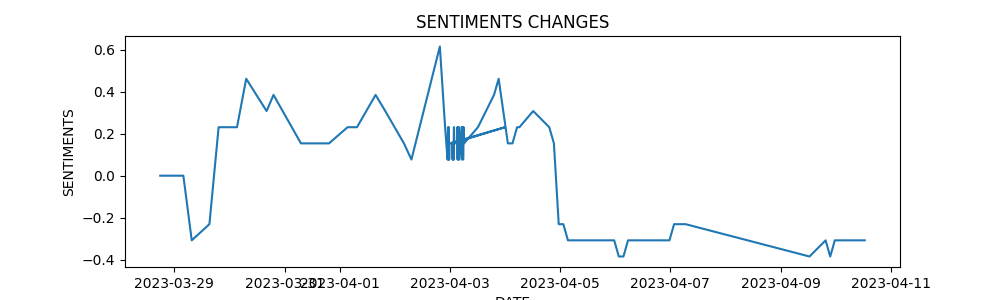
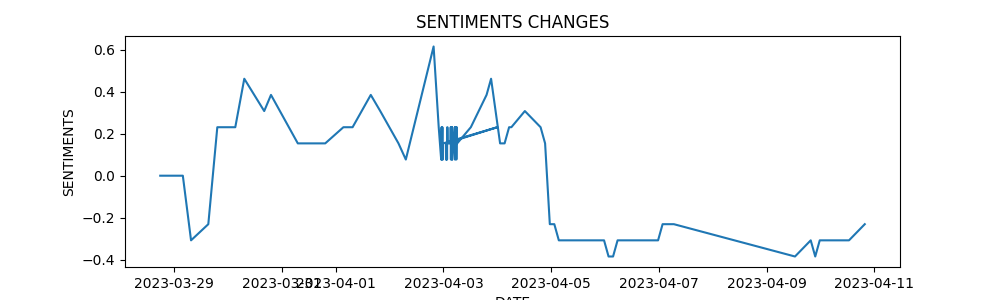
Commit

diff --git a/news.html b/news.html
@@ -175,6 +175,102 @@
             
 		
         <li>
+            <a href=https://www.espn.com.au/football/english-premier-league/story/4917343/the-var-review-unpacking-brighton-error-vs-tottenham-brentford-penalty-newcastle style = "text-decoration: none;" target="_blank" class = s>
+                <h1 style="color:blue; font-size:24px;">
+                THE VAR REVIEW: UNPACKING BRIGHTON PENALTY ERROR VS. SPURS
+                </h1>                
+            </a>
+            <p style="color:grey;font-size:14px;">
+                https://www.espn.com.au/football/english-premier-league/story/4917343/the-var-review-unpacking-brighton-error-vs-tottenham-brentford-penalty-newcastle
+            </p>
+            <p style="color:black;font-size:16px;font-weight: bold;">
+                04/10/2023, 17:07
+            </p>
+            <p style="color:black;font-size:16px;font-weight:bold;">
+                94.23% Shortened!
+            </p>
+            <div class = "container">
+                <img src=/image/news_images/background.jpeg class="image" style="width:100%" alt = "NO IMAGE" onerror = "this.onerror=null;this.src='/image/news_images/background.jpeg';">
+                <div class = "middle">
+                    <div class="text">
+        
+            <p>
+                It appeared to hit Mepham lower on the arm, the on-field decision was no handball, but the VAR didn't intervene in this either
+            </p>
+            
+            <p>
+                The consistency should lie in when the VAR gets involved
+            </p>
+            
+            <p>
+                The VAR in that game just happened to be Attwell
+            </p>
+            
+            <p>
+                Again, VAR should be about consistency in intervention
+            </p>
+            
+            <p>
+                With this contact, there is no prospect of a VAR intervention
+            </p>
+            
+            <p>
+                As there was clear contact from Walker-Peters, and he didn't get a touch on the ball, there will be no VAR intervention
+            </p>
+              
+                		<p> </p>
+                        <p> </p>
+                        <p style="color:black;font-size:10px;">
+                            ['decision', 'var', 'penalty', 'goal', 'ball']
+                        </p>
+                    </div>
+                </div>
+            </div>
+            <div class = "mobile" onClick=onClick(this)>
+                <img src = /image/news_images/background.jpeg class = "image" style="width:100%" alt = "NO IMAGE" onerror = "this.onerror=null;this.src='/image/news_images/background.jpeg';">
+                <button style = "width:100%;height:30px">
+                    Shorten!
+                </button>
+                <div class="textmobile" style="display:none">
+                
+            <p>
+                It appeared to hit Mepham lower on the arm, the on-field decision was no handball, but the VAR didn't intervene in this either
+            </p>
+            
+            <p>
+                The consistency should lie in when the VAR gets involved
+            </p>
+            
+            <p>
+                The VAR in that game just happened to be Attwell
+            </p>
+            
+            <p>
+                Again, VAR should be about consistency in intervention
+            </p>
+            
+            <p>
+                With this contact, there is no prospect of a VAR intervention
+            </p>
+            
+            <p>
+                As there was clear contact from Walker-Peters, and he didn't get a touch on the ball, there will be no VAR intervention
+            </p>
+            
+                
+                        <p> </p>
+                        <p> </p>
+                        <p style="color:black;font-size:10px;">
+                            ['decision', 'var', 'penalty', 'goal', 'ball']
+                        </p>
+                </div>
+            </div>
+            <br>
+            <br>
+            </li>
+
+		
+        <li>
             <a href=https://www.thestar.com.my/news/nation/2023/04/10/no-proof-syed-saddiq-used-rm1mil-funds-for-personal-purposes-court-hears style = "text-decoration: none;" target="_blank" class = m>
                 <h1 style="color:blue; font-size:24px;">
                 NO PROOF SYED SADDIQ USED RM1MIL FUNDS FOR PERSONAL PURPOSES, COURT HEARS
@@ -855,6 +951,102 @@
 
 		
         <li>
+            <a href=https://www.thestar.com.my/lifestyle/entertainment/2023/04/10/puteri-sarah-and-syamsul-yusof-agree-on-divorcing-amicably-after-talking-things-over-when-breaking-fast-together style = "text-decoration: none;" target="_blank" class = m>
+                <h1 style="color:blue; font-size:24px;">
+                PUTERI SARAH AND SYAMSUL YUSOF AGREE ON DIVORCING AMICABLY
+                </h1>                
+            </a>
+            <p style="color:grey;font-size:14px;">
+                https://www.thestar.com.my/lifestyle/entertainment/2023/04/10/puteri-sarah-and-syamsul-yusof-agree-on-divorcing-amicably-after-talking-things-over-when-breaking-fast-together
+            </p>
+            <p style="color:black;font-size:16px;font-weight: bold;">
+                04/10/2023, 13:07
+            </p>
+            <p style="color:black;font-size:16px;font-weight:bold;">
+                76.92% Shortened!
+            </p>
+            <div class = "container">
+                <img src=https://cdn.thestar.com.my/Themes/img/logo-tsol-logov2.png class="image" style="width:100%" alt = "NO IMAGE" onerror = "this.onerror=null;this.src='/image/news_images/background.jpeg';">
+                <div class = "middle">
+                    <div class="text">
+        
+            <p>
+                Both Syamsul Yusof and Puteri Sarah agree to go their separate ways
+            </p>
+            
+            <p>
+                The article mentioned that both Syamsul and Puteri Sarah appeared calm and relaxed on Monday as they entered the court premises
+            </p>
+            
+            <p>
+                All these while I just wanted the case to be over.” The fact that the two of them talked things over and reached an agreement will also put an end to Syamsul’s refusal to divorce Puteri Sarah, which he expressed in court on March 7 during first mention of Puteri Sarah's divorce application
+            </p>
+            
+            <p>
+                Furthermore, she said, Syamsul will be retracting the nusyuz (disobedience) application he had filed on March 21 against Puteri Sarah
+            </p>
+            
+            <p>
+                When I met Syamsul last night, it was clear he didn’t want to fight.” Syamsul and Puteri Sarah got married on March 8, 2014 and have two children together, six and four
+            </p>
+            
+            <p>
+                On Jan 6, Syamsul shared that he married Ira Kazar in Thailand and that she is his second wife while Puteri Sarah is legally still his first wife
+            </p>
+              
+                		<p> </p>
+                        <p> </p>
+                        <p style="color:black;font-size:10px;">
+                            ['syamsul', 'puteri', 'sarah', 'wife', 'divorce']
+                        </p>
+                    </div>
+                </div>
+            </div>
+            <div class = "mobile" onClick=onClick(this)>
+                <img src = https://cdn.thestar.com.my/Themes/img/logo-tsol-logov2.png class = "image" style="width:100%" alt = "NO IMAGE" onerror = "this.onerror=null;this.src='/image/news_images/background.jpeg';">
+                <button style = "width:100%;height:30px">
+                    Shorten!
+                </button>
+                <div class="textmobile" style="display:none">
+                
+            <p>
+                Both Syamsul Yusof and Puteri Sarah agree to go their separate ways
+            </p>
+            
+            <p>
+                The article mentioned that both Syamsul and Puteri Sarah appeared calm and relaxed on Monday as they entered the court premises
+            </p>
+            
+            <p>
+                All these while I just wanted the case to be over.” The fact that the two of them talked things over and reached an agreement will also put an end to Syamsul’s refusal to divorce Puteri Sarah, which he expressed in court on March 7 during first mention of Puteri Sarah's divorce application
+            </p>
+            
+            <p>
+                Furthermore, she said, Syamsul will be retracting the nusyuz (disobedience) application he had filed on March 21 against Puteri Sarah
+            </p>
+            
+            <p>
+                When I met Syamsul last night, it was clear he didn’t want to fight.” Syamsul and Puteri Sarah got married on March 8, 2014 and have two children together, six and four
+            </p>
+            
+            <p>
+                On Jan 6, Syamsul shared that he married Ira Kazar in Thailand and that she is his second wife while Puteri Sarah is legally still his first wife
+            </p>
+            
+                
+                        <p> </p>
+                        <p> </p>
+                        <p style="color:black;font-size:10px;">
+                            ['syamsul', 'puteri', 'sarah', 'wife', 'divorce']
+                        </p>
+                </div>
+            </div>
+            <br>
+            <br>
+            </li>
+
+		
+        <li>
             <a href=https://www.football.london/arsenal-fc/news/arsenal-injury-liverpool-saliba-nketiah-26664059 style = "text-decoration: none;" target="_blank" class = s>
                 <h1 style="color:blue; font-size:24px;">
                 WILLIAM SALIBA, EDDIE NKETIAH: ARSENAL INJURY NEWS AND RETURN DATES AFTER LIVERPOOL CLASH
@@ -1326,6 +1518,102 @@
                         <p> </p>
                         <p style="color:black;font-size:10px;">
                             ['zahid', 'hamidi', 'trial', 'new', 'letter']
+                        </p>
+                </div>
+            </div>
+            <br>
+            <br>
+            </li>
+
+		
+        <li>
+            <a href=https://www.thestar.com.my/business/business-news/2023/04/10/foreign-inflow-continues-for-second-week style = "text-decoration: none;" target="_blank" class = b>
+                <h1 style="color:blue; font-size:24px;">
+                FOREIGN INFLOW CONTINUES FOR SECOND WEEK
+                </h1>                
+            </a>
+            <p style="color:grey;font-size:14px;">
+                https://www.thestar.com.my/business/business-news/2023/04/10/foreign-inflow-continues-for-second-week
+            </p>
+            <p style="color:black;font-size:16px;font-weight: bold;">
+                04/10/2023, 11:07
+            </p>
+            <p style="color:black;font-size:16px;font-weight:bold;">
+                57.14% Shortened!
+            </p>
+            <div class = "container">
+                <img src=https://cdn.thestar.com.my/Themes/img/logo-tsol-logov2.png class="image" style="width:100%" alt = "NO IMAGE" onerror = "this.onerror=null;this.src='/image/news_images/background.jpeg';">
+                <div class = "middle">
+                    <div class="text">
+        
+            <p>
+                However, the research firm also highlighted that there was foreign net outflow in four of the five trading days
+            </p>
+            
+            <p>
+                "Top three sectors that saw net foreign inflows last week were Consumer Products & Services (RM39.1m), Utilities (RM24.2m) and Energy (RM18.2m), while the top three sectors that saw net foreign outflows were Financial Services (-RM39.1m), Healthcare (-RM30.2m) and Technology (-RM16.9m)," said MIDF
+            </p>
+            
+            <p>
+                Year-to-date, foreigners have net sold Malaysian equities for nine out of 14 weeks, for a net outflow of RM1.86bil
+            </p>
+            
+            <p>
+                Meanwhile, local institutions were net buyers with a total net inflow of RM50.1mil
+            </p>
+            
+            <p>
+                Local retailers were net sellers of RM69mil of Malaysian equities
+            </p>
+            
+            <p>
+                In terms of participation, there was a decline in average daily trading volume (ADTV) among local retailers by 5.8%, local institutions by 3.2% and foreign investors by 18.8%.
+            </p>
+              
+                		<p> </p>
+                        <p> </p>
+                        <p style="color:black;font-size:10px;">
+                            ['net', 'foreign', 'inflow', 'week', 'midf']
+                        </p>
+                    </div>
+                </div>
+            </div>
+            <div class = "mobile" onClick=onClick(this)>
+                <img src = https://cdn.thestar.com.my/Themes/img/logo-tsol-logov2.png class = "image" style="width:100%" alt = "NO IMAGE" onerror = "this.onerror=null;this.src='/image/news_images/background.jpeg';">
+                <button style = "width:100%;height:30px">
+                    Shorten!
+                </button>
+                <div class="textmobile" style="display:none">
+                
+            <p>
+                However, the research firm also highlighted that there was foreign net outflow in four of the five trading days
+            </p>
+            
+            <p>
+                "Top three sectors that saw net foreign inflows last week were Consumer Products & Services (RM39.1m), Utilities (RM24.2m) and Energy (RM18.2m), while the top three sectors that saw net foreign outflows were Financial Services (-RM39.1m), Healthcare (-RM30.2m) and Technology (-RM16.9m)," said MIDF
+            </p>
+            
+            <p>
+                Year-to-date, foreigners have net sold Malaysian equities for nine out of 14 weeks, for a net outflow of RM1.86bil
+            </p>
+            
+            <p>
+                Meanwhile, local institutions were net buyers with a total net inflow of RM50.1mil
+            </p>
+            
+            <p>
+                Local retailers were net sellers of RM69mil of Malaysian equities
+            </p>
+            
+            <p>
+                In terms of participation, there was a decline in average daily trading volume (ADTV) among local retailers by 5.8%, local institutions by 3.2% and foreign investors by 18.8%.
+            </p>
+            
+                
+                        <p> </p>
+                        <p> </p>
+                        <p style="color:black;font-size:10px;">
+                            ['net', 'foreign', 'inflow', 'week', 'midf']
                         </p>
                 </div>
             </div>

diff --git a/finance.html b/finance.html
@@ -13,7 +13,7 @@
                 <img style = "width:70px;" src="image/MNAZ.gif" alt="MNAZ Web">
                 <button id="darkModeToggle">Toggle Dark Mode</button>
               </header>
-              <h2>Date: 2023-04-10 12:41:13.700865</h2>
+              <h2>Date: 2023-04-10 19:41:42.242492</h2>
               <div class="container">
                 <div class="half">
                   <h2>News</h2>
@@ -21,9 +21,9 @@
                   <a href = "https://www.investing.com/currencies/usd-jpy-news" target = "_blank">Scraped From Investing.com </a>
                   <ul id="newsList" class="hidden">
                       
+<li style = 'font-weight: bold;'>Futures stabilize, inflation data looms, the IMF meets - what's moving markets<ul><li style = 'font-size: smaller;font-style: italic;'>Neutral</li></ul></li>
+<li style = 'font-weight: bold;'>Oil steadies as tighter supply balances growth concerns<ul><li style = 'font-size: smaller;font-style: italic;'>Neutral</li></ul></li>
 <li style = 'font-weight: bold;'>Top 5 things to watch in markets in the week ahead<ul><li style = 'font-size: smaller;font-style: italic;'>Neutral</li></ul></li>
-<li style = 'font-weight: bold;'>U.S. searches for source of highly classified intel leak<ul><li style = 'font-size: smaller;font-style: italic;'>Negative</li></ul></li>
-<li style = 'font-weight: bold;'>Oil steady as investors weigh tighter supply vs. growth outlook<ul><li style = 'font-size: smaller;font-style: italic;'>Neutral</li></ul></li>
 <li style = 'font-weight: bold;'>Dollar edges higher on safe haven flows; caution ahead of payrolls<ul><li style = 'font-size: smaller;font-style: italic;'>Neutral</li></ul></li>
 <li style = 'font-weight: bold;'>Asia FX, dollar muted amid economic fears, Kiwi rallies on hawkish RBNZ<ul><li style = 'font-size: smaller;font-style: italic;'>Neutral</li></ul></li>
 <li style = 'font-weight: bold;'>Dollar remains weak as Fed nears end of hiking cycle<ul><li style = 'font-size: smaller;font-style: italic;'>Negative</li></ul></li>
@@ -47,10 +47,10 @@
                         Positive: 1
                     </li>
                     <li style = 'font-size: smaller;font-style: italic;'>
-                        Negative: 4
+                        Negative: 3
                     </li>
                     <li style = 'font-size: smaller;font-style: italic;'>
-                        Neutral: 8
+                        Neutral: 9
                     </li>
                 </ul>
                 <p style = 'font-weight:bold;'>VADER SENTIMENTS</p>
